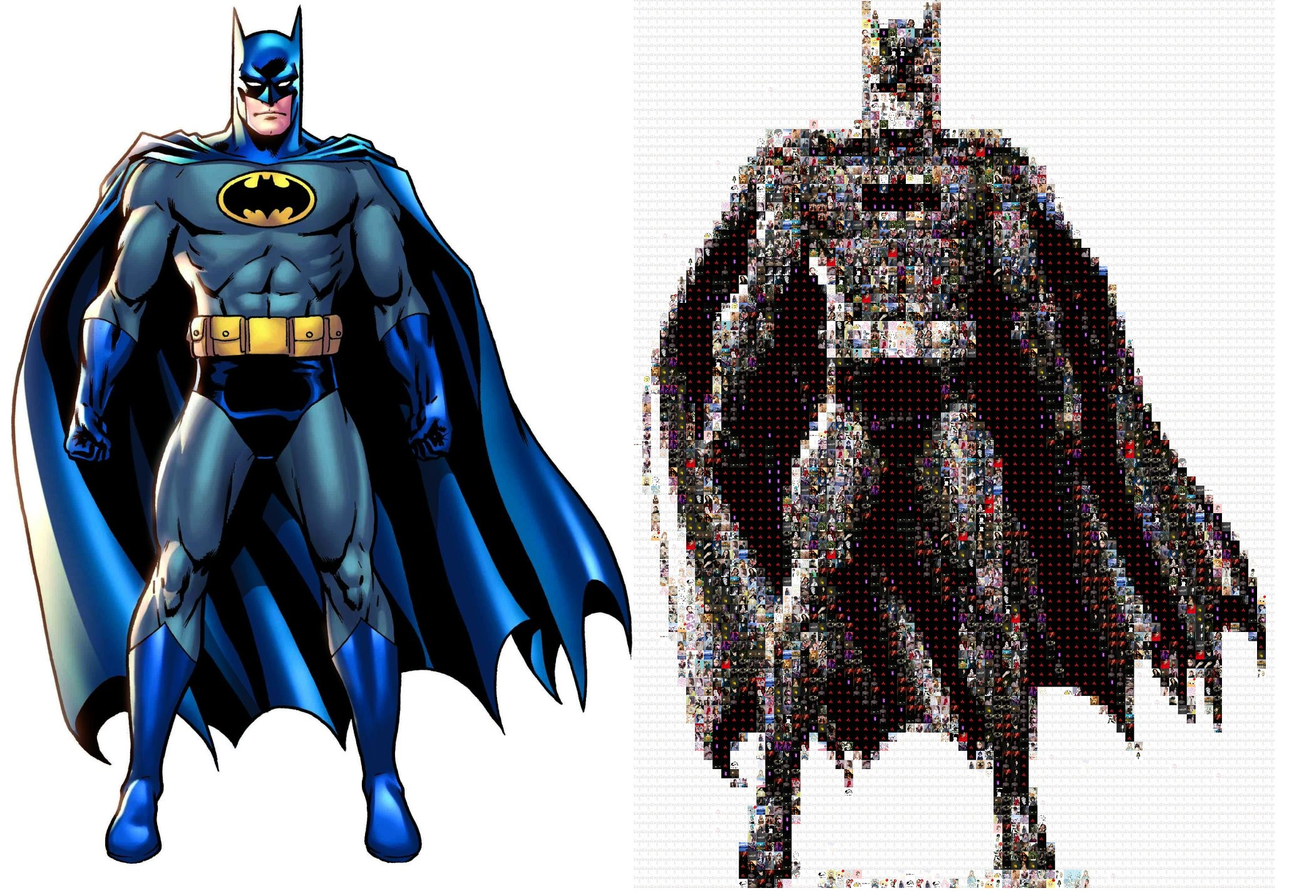
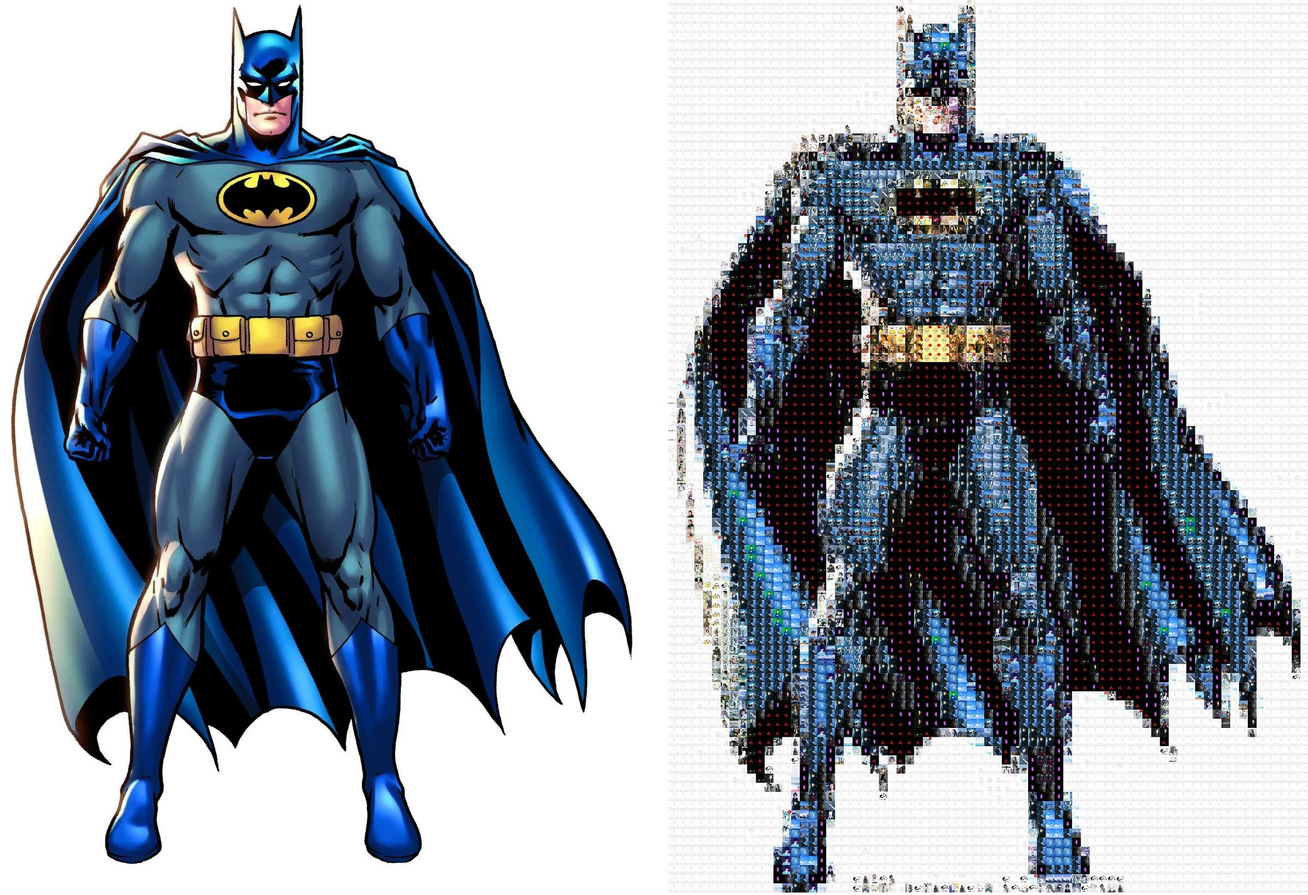
修改了文档

diff --git a/src/ImageMosaic/ImageConfig.java b/src/ImageMosaic/ImageConfig.java
@@ -8,7 +8,7 @@ public class ImageConfig {
     //图片库路径
     public static final String PICTURES = "src/SpiderPicture/";
     //输入的图片路径
-    public static final String INPUT_IMAGE = "src/input/5.jpg";
+    public static final String INPUT_IMAGE = "src/input/6.jpg";
     //输出图片路径
     public static final String OUTPUT_PATH = "src/output/";
     //原图缩小的最小宽度

diff --git a/README.md b/README.md
@@ -1,9 +1,11 @@
+  
+
 # PhotoMosaic
 ### 基本操作
 1. 使用java的jsoup包简单的对网站图片进行爬取。
-2. 将爬取到的图片进行灰度值计算。
-3. 算出输入图片的每个block的RGB的灰度值。
-4. 选出图片库中与之灰度值最接近的图片代替block。
+2. 获取每张图片的RGB。
+3. 获取输入图片的每个block的RGB。
+4. 选出图片库中与之最接近的图片代替block。
 
 ### 基本思路
 #### 概念
@@ -12,28 +14,19 @@
 * 灰度值：灰度就是没有色彩，灰度使用黑色调表示物体,即用黑色为基准色，不同的饱和度的黑色来显示图像。
 彩色图象的灰度其实在转化为黑白图像后的像素值（是一种广义的提法），转化的方法看应用的领域而定，一般按加权的方法转换，R， G，B 的比一般为3：6：1。
 #### RGB        
+![](ComparePicture/RGB.png)
+
+如图所示，RGB使用32位来表示一个像素，RGB分量分别占8位，剩下的8位用作Alpha通道或者不用。该图是ARGB，可以看成带Alpha的RGB24
+，所以在取得RGB后，如何获取red，green，blue三个值呢？那就是进行移位操作，例如要获取red分量的值，首先通过getRGB()方法获取到rgb的值，然后red = (rgb &0xff0000) >> 16，这样就获取到了red的值。
+当然如果获取到r,g,b三个分量后要变回原来的结构即变回rgb，只要用( a<<24 ) | ( r<<16 ) | ( g<<8 ) | b
 #### 算法
+在计算图片库中与block块最匹配的过程中，我使用的算法：   
+![](ComparePicture/gongsi.png)  
+求出最小值。
 ### 效果图
 #### 小猪：
-![](ComparePicture/pig.jpg)
+![](ComparePicture/Pig.jpg)
 #### 蝙蝠侠：
 ![](ComparePicture/Batman.jpg)
-### v1版问题
-
-1. 需要原图分辨率在100*100左右，考虑到希望能看到每一块拼图，所以将每一块设置的比较大，
-如果不必看到每一块拼图的效果，可以直接按像素进行拼接。1200\*1200的分辨率需要填补1200\*1200块图片，绘制时间和图片大小会非常大。
-2. 图片爬取和图片绘制需要优化。
-3. 算法不正确导致图片匹配存在不准确，颜色与原图差距较大。
-4. 图片库图片多但是真正使用到的很少，灰色值相同的图片没有进行随机选取。
-
-### v2版需改进
-1. 算法准确度，即颜色匹配需要更大的改进！！
-2. 算法性能
-3. 处理图片分辨率。
-
-### v2修改颜色匹配
-之前算法有点问题，是个错误的算法
-#### 小猪：
-![](ComparePicture/pig1.jpg)
-#### 蝙蝠侠：
-![](ComparePicture/batman1.jpg)
+#### 蒙娜丽莎：
+![](ComparePicture/Monalisa.jpg)
